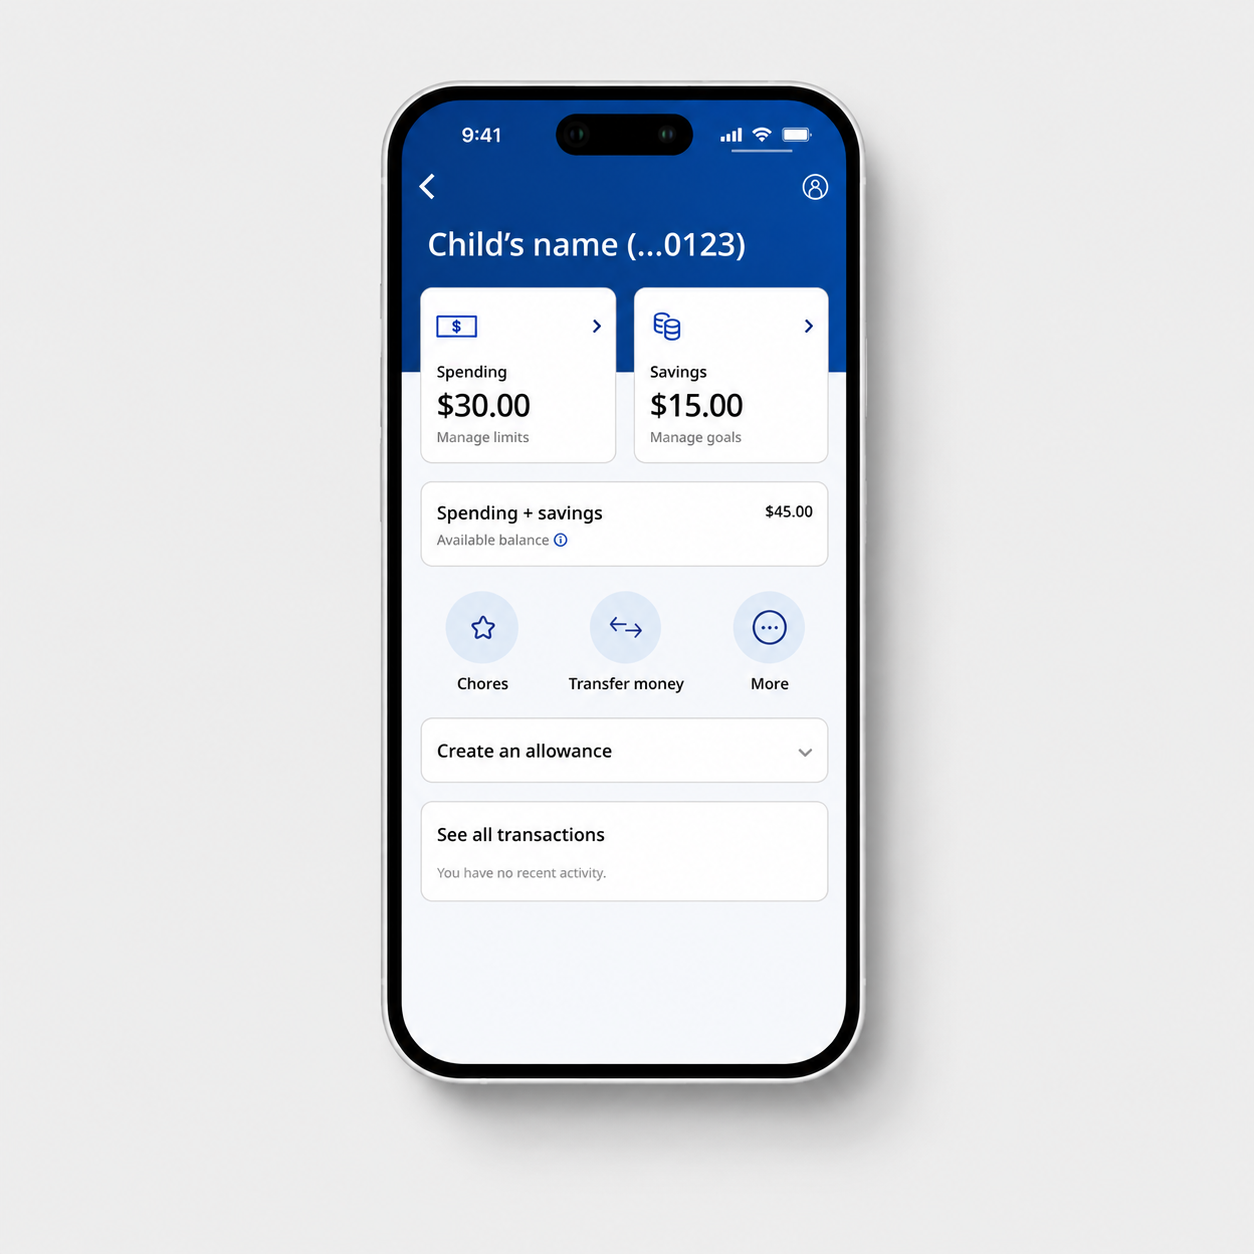
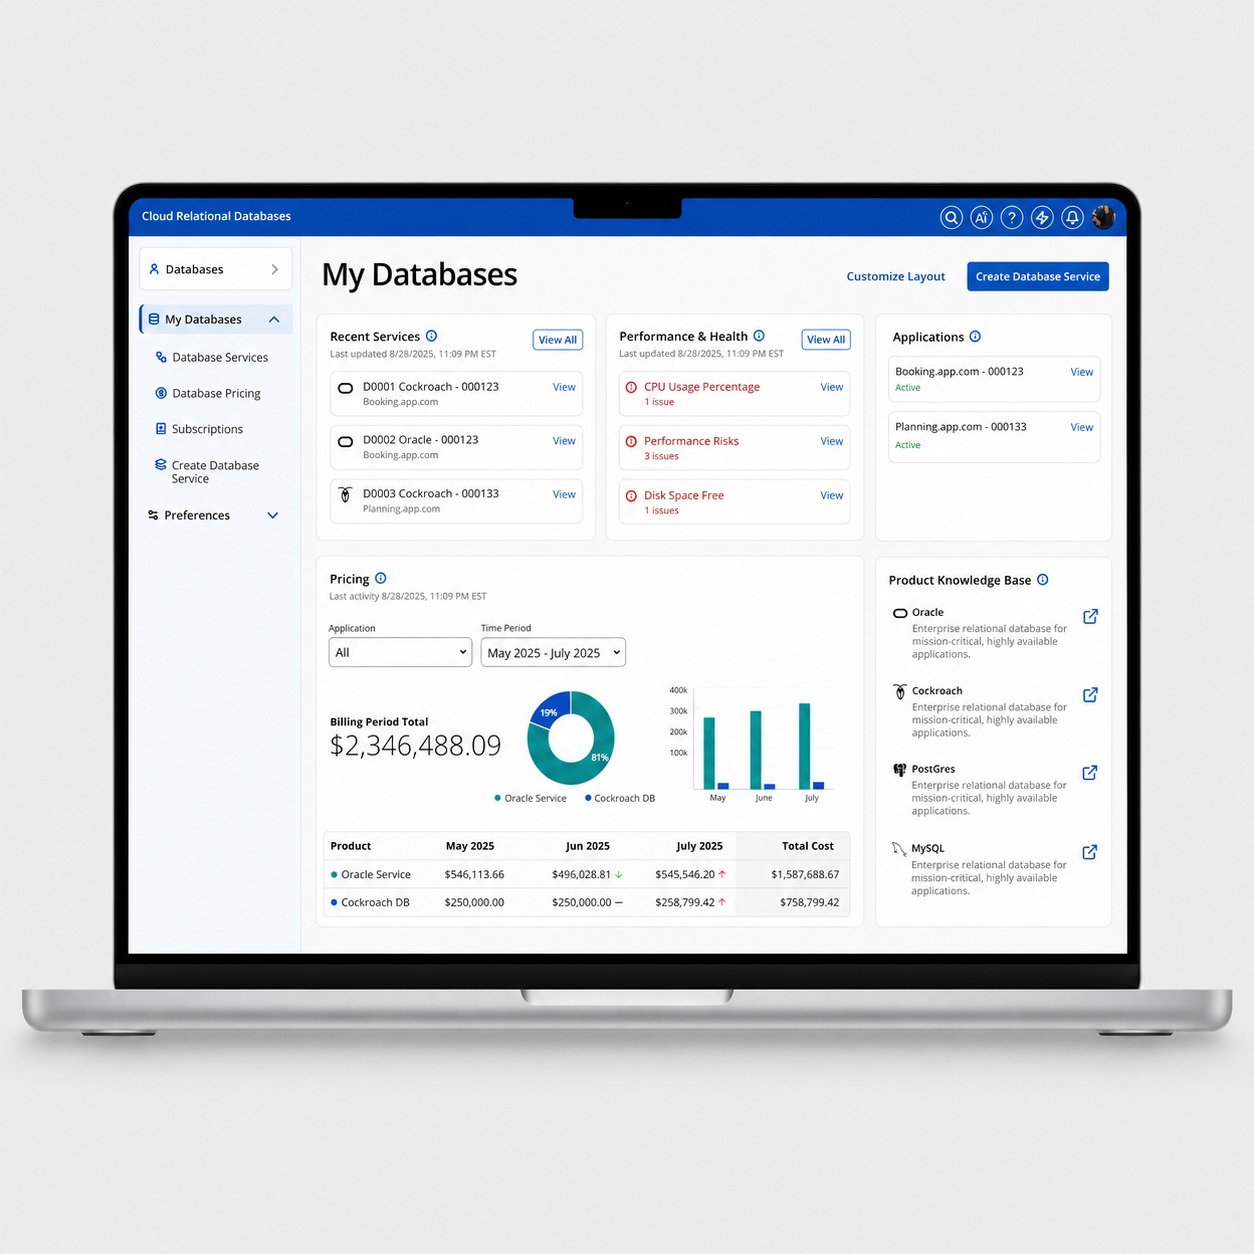
Update family banking and databases cover assets

Changed region(s): [[0.0, 0.0622, 0.9952, 0.933]]

diff --git a/src/app/App.tsx b/src/app/App.tsx
@@ -10,7 +10,7 @@ import { useTheme } from "./hooks/useTheme";
 import { CaseStudyPresentationPage } from "../components/case-study/CaseStudyPresentationPage";
 import { CaseStudyRoutedPage } from "../components/case-study/CaseStudyRoutedPage";
 import DesignSystemPage from "./DesignSystemPage";
-import cfbCoverImage from "../assets/covers/FB Cover 2.png";
+import cfbCoverImage from "../assets/covers/FB_Cover_1.png";
 import databasesCoverImage from "../assets/covers/Databases_Cover_4.png";
 import tamareLightLogo from "../assets/Favicon/Tamare Light Logo.svg";
 import tamareDarkLogo from "../assets/Favicon/Tamare Dark Logo.svg";

diff --git a/src/app/data/caseStudies.ts b/src/app/data/caseStudies.ts
@@ -47,7 +47,7 @@ import key11 from "@/assets/Project images/Key_11.png";
 import key12 from "@/assets/Project images/Key_12.png";
 import key13 from "@/assets/Project images/Key_13.png";
 import key14 from "@/assets/Project images/Key_14.png";
-import sparkCoverFull from "@/assets/covers/Spark_Cover_Full.jpg";
+import sparkCoverFull from "@/assets/covers/FB_Cover_1.png";
 import databasesCoverFull from "@/assets/covers/Databases_Cover_4.png";
 import arrCoverFull from "@/assets/covers/ARR_Cover_Full.jpg";
 import kycCoverFull from "@/assets/covers/KYC_Cover_Full.jpg";
